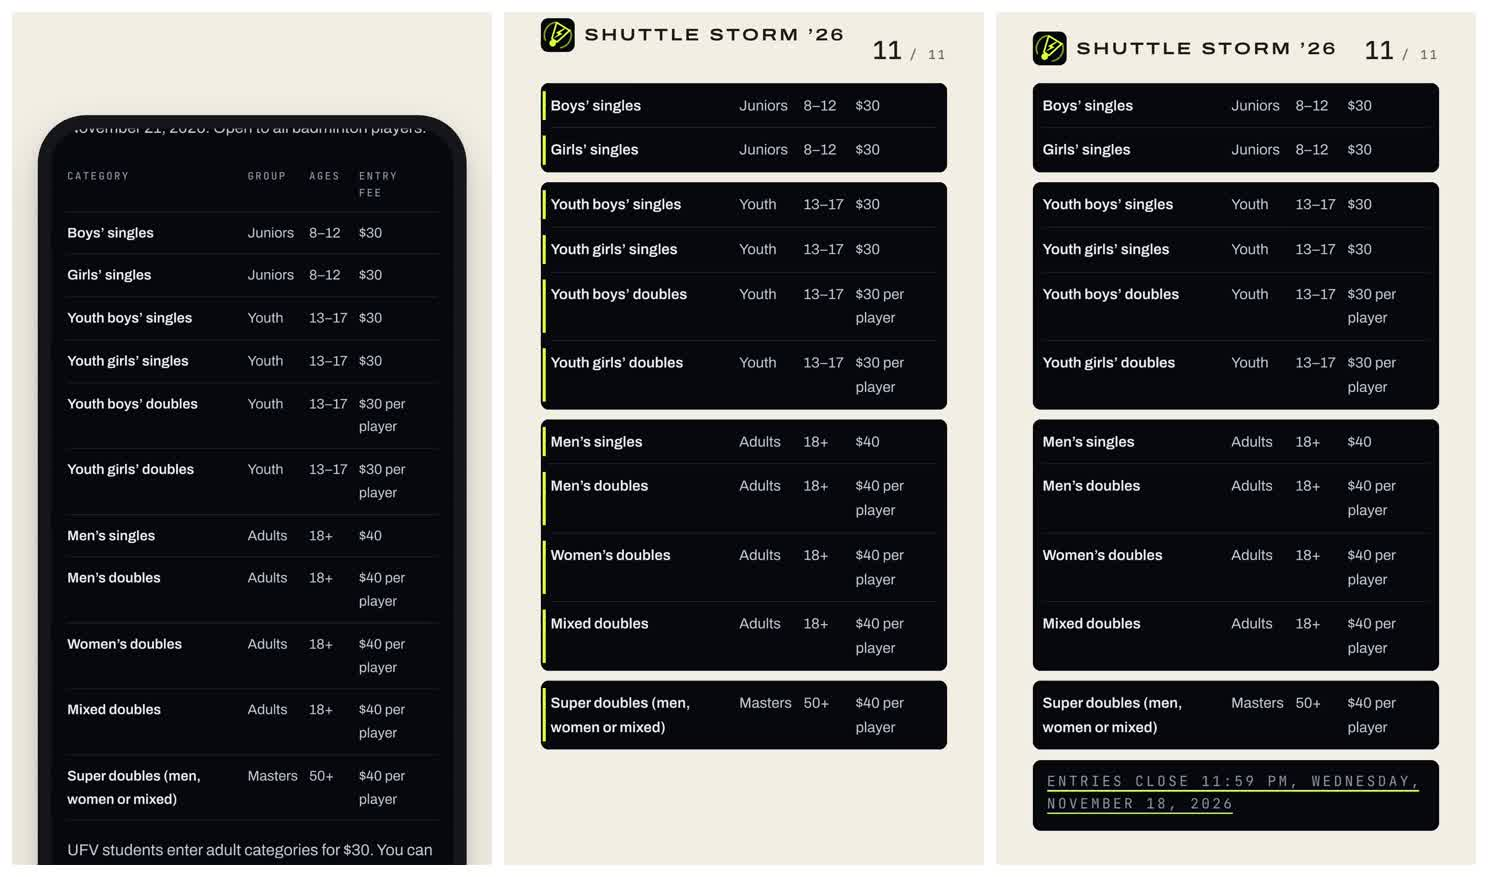
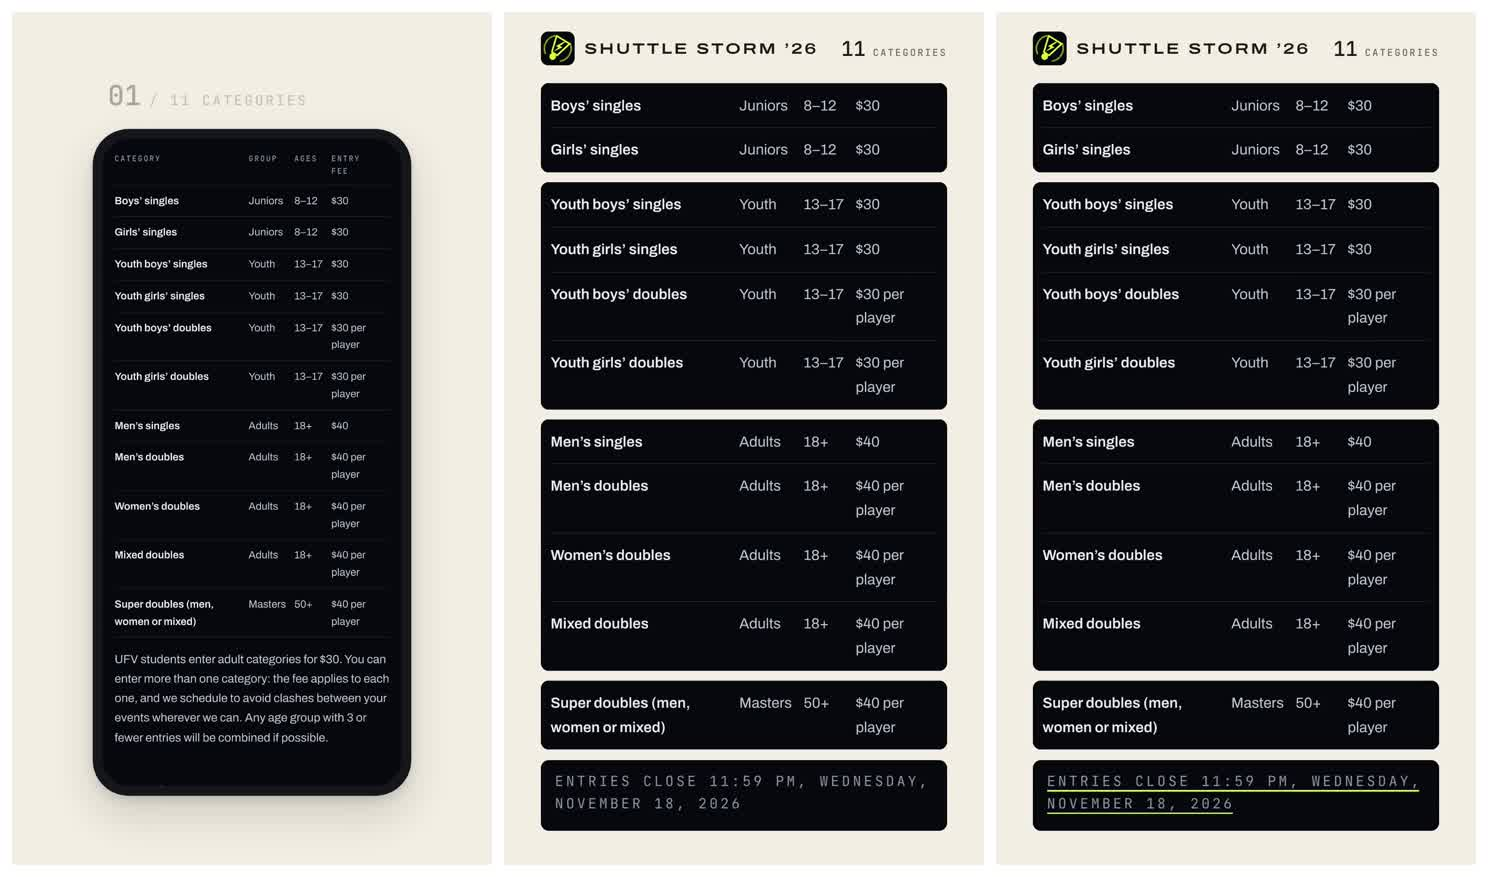
Shuttle Storm clip: rows break out and grow into the wall
Addresses the fourth critic review: the scan shows the whole phone, so
the rows visibly grow about 1.4x into the full-width wall; the scan is
shorter and overlaps the lift; the phone exits fast; the counter ends as
"11 CATEGORIES"; the opening shows the menu header and the 05 numeral.

Claude-Session: https://claude.ai/code/session_01Q1qV7aXr3g9FSPdkydwqG5

Changed region(s): [[0.0, 0.0924, 0.6492, 0.9852], [0.3401, 0.0, 0.6183, 0.0924], [0.711, 0.0308, 0.9583, 0.0616]]

diff --git a/motion-graphics/src/ShuttleStormRegister.tsx b/motion-graphics/src/ShuttleStormRegister.tsx
@@ -116,17 +116,17 @@ const tap = {
   x: SCREEN.x + (MENU_TEXT.x + MENU_TEXT.w * 0.55) * K,
   y: SCREEN.y + (MENU_TEXT.y + MENU_TEXT.h / 2) * K,
 };
-const linkFocus = {
-  x: SCREEN.x + (MENU_TEXT.x + MENU_TEXT.w / 2) * K,
-  y: tap.y,
-};
-const scanFocusY = (PHONE.y - 96 + SCREEN.y + (ROWS[10][0] + ROWS[10][1] - CATS_SCROLL) * K) / 2 + 20;
+// Opening frame: the menu from its header (mark + name) down past "05 Categories".
+const menuFocus = { x: SCREEN.x + 205 * K, y: SCREEN.y + 200 * K };
+// Scan frame: the whole phone with the counter above it, so the rows read small
+// here and visibly grow when they break out into the wall.
+const scanFocusY = (PHONE.y - 96 + PHONE.y + PHONE_H) / 2;
 
 // Camera: hold → travel → hold. Repeated keys are holds.
-const KEY_T = [0, 18, 36, 76, 104, DURATION];
-const KEY_X = [linkFocus.x, linkFocus.x, WIDTH / 2, WIDTH / 2, WIDTH / 2, WIDTH / 2];
-const KEY_Y = [linkFocus.y, linkFocus.y, scanFocusY, scanFocusY, HEIGHT / 2, HEIGHT / 2];
-const KEY_Z = [2.9, 2.9, 1.5, 1.5, 1, 1];
+const KEY_T = [0, 18, 34, 58, 84, DURATION];
+const KEY_X = [menuFocus.x, menuFocus.x, WIDTH / 2, WIDTH / 2, WIDTH / 2, WIDTH / 2];
+const KEY_Y = [menuFocus.y, menuFocus.y, scanFocusY, scanFocusY, HEIGHT / 2, HEIGHT / 2];
+const KEY_Z = [1.95, 1.95, 1.12, 1.12, 1, 1];
 
 export const ShuttleStormRegister: React.FC = () => {
   const frame = useCurrentFrame();
@@ -139,34 +139,35 @@ export const ShuttleStormRegister: React.FC = () => {
   // (menu.js: a:active{color:#D4FF3A}) turns its text volt.
   const touchIn = interpolate(frame, [3, 9], [0, 1], { ...clamp, easing: Easing.out(Easing.cubic) });
   const pressed = interpolate(frame, [9, 12, 16, 19], [0, 1, 1, 0], clamp);
-  const touchOut = interpolate(frame, [17, 21], [1, 0], clamp);
+  const touchOut = interpolate(frame, [15, 18], [1, 0], clamp);
   const active = frame >= 11 && frame < 20 ? 1 : 0;
 
   // The link navigates: a clean cut to /categories, which scrolls to its table.
   const onCategories = frame >= 20;
-  const scroll = interpolate(frame, [22, 38], [0, CATS_SCROLL], { ...clamp, easing: ease });
+  const scroll = interpolate(frame, [22, 34], [0, CATS_SCROLL], { ...clamp, easing: ease });
 
   // A flat volt bar marks each of the eleven real rows; the counter follows it.
-  const ROW_START = 40;
-  const ROW_STEP = 2.6;
+  const ROW_START = 36;
+  const ROW_STEP = 1.9;
   const markedAt = (i: number) =>
     interpolate(frame, [ROW_START + i * ROW_STEP, ROW_START + i * ROW_STEP + 3], [0, 1], clamp);
   const rowsDone = Math.max(1, Math.min(11, Math.floor((frame - ROW_START) / ROW_STEP) + 1));
 
-  // The rows lift out of the page together (no overlap) and scale up into the
-  // wall; the emptied phone drops away beneath them. Marker bars retract.
-  const lift = interpolate(frame, [78, 104], [0, 1], { ...clamp, easing: ease });
-  const markerKeep = interpolate(frame, [104, 116], [1, 0], { ...clamp, easing: ease });
-  const phoneDrop = interpolate(frame, [80, 100], [0, 2300], {
+  // As the count completes, the rows break out of the page together (no overlap)
+  // and grow ~1.4× into the full-width wall while the camera settles back; the
+  // emptied phone shrinks and drops out fast. Marker bars retract.
+  const lift = interpolate(frame, [58, 84], [0, 1], { ...clamp, easing: ease });
+  const markerKeep = interpolate(frame, [84, 94], [1, 0], { ...clamp, easing: ease });
+  const phoneOut = interpolate(frame, [58, 72], [0, 1], {
     ...clamp,
-    easing: Easing.in(Easing.quad),
+    easing: Easing.in(Easing.cubic),
   });
 
   // Lockup slides down into frame, the deadline card slides up, both opaque.
-  const lockupIn = interpolate(frame, [96, 112], [0, 1], { ...clamp, easing: Easing.out(Easing.cubic) });
-  const deadlineIn = interpolate(frame, [104, 120], [0, 1], { ...clamp, easing: Easing.out(Easing.cubic) });
-  const line1 = interpolate(frame, [122, 134], [0, 1], { ...clamp, easing: ease });
-  const line2 = interpolate(frame, [132, 140], [0, 1], { ...clamp, easing: ease });
+  const lockupIn = interpolate(frame, [78, 94], [0, 1], { ...clamp, easing: Easing.out(Easing.cubic) });
+  const deadlineIn = interpolate(frame, [86, 102], [0, 1], { ...clamp, easing: Easing.out(Easing.cubic) });
+  const line1 = interpolate(frame, [104, 116], [0, 1], { ...clamp, easing: ease });
+  const line2 = interpolate(frame, [114, 122], [0, 1], { ...clamp, easing: ease });
 
   const s = interpolate(lift, [0, 1], [K, WALL_S]);
 
@@ -198,7 +199,7 @@ export const ShuttleStormRegister: React.FC = () => {
               fontFamily: ARCHIVO,
               fontWeight: 600,
               fontStretch: "125%",
-              fontSize: 38,
+              fontSize: 34,
               letterSpacing: "0.14em",
               color: INK,
               textTransform: "uppercase",
@@ -214,7 +215,7 @@ export const ShuttleStormRegister: React.FC = () => {
           style={{
             position: "absolute",
             left: interpolate(lift, [0, 1], [SCREEN.x + CROP_X * K, WIDTH - MARGIN]),
-            top: interpolate(lift, [0, 1], [PHONE.y - 96, LOCKUP_Y + 14]),
+            top: interpolate(lift, [0, 1], [PHONE.y - 96, LOCKUP_Y + 16]),
             transform: `translateX(${-100 * lift}%)`,
             fontFamily: MONO,
             fontWeight: 500,
@@ -227,9 +228,9 @@ export const ShuttleStormRegister: React.FC = () => {
             opacity: interpolate(frame, [ROW_START - 4, ROW_START + 2], [0, 1], clamp),
           }}
         >
-          <span style={{ fontSize: 56, lineHeight: 1 }}>{String(rowsDone).padStart(2, "0")}</span>
-          <span style={{ fontSize: 28, letterSpacing: "0.16em", color: MUTED }}>
-            {lift < 0.5 ? "/ 11 CATEGORIES" : "/ 11"}
+          <span style={{ fontSize: interpolate(lift, [0, 1], [56, 46]), lineHeight: 1 }}>{String(rowsDone).padStart(2, "0")}</span>
+          <span style={{ fontSize: interpolate(lift, [0, 1], [28, 22]), letterSpacing: "0.16em", color: MUTED }}>
+            {lift < 0.5 ? "/ 11 CATEGORIES" : "CATEGORIES"}
           </span>
         </div>
 
@@ -243,7 +244,7 @@ export const ShuttleStormRegister: React.FC = () => {
             height: PHONE_H,
             borderRadius: 72,
             backgroundColor: DEVICE,
-            transform: `translateY(${phoneDrop}px)`,
+            transform: `translateY(${phoneOut * 2300}px) scale(${1 - 0.35 * phoneOut})`,
             boxShadow: "0 40px 80px rgba(40, 32, 20, 0.16), 0 8px 18px rgba(40, 32, 20, 0.12)",
           }}
         >
@@ -327,7 +328,7 @@ export const ShuttleStormRegister: React.FC = () => {
           ? ROWS.map(([top, h, g], i) => {
               const first = i === 0 || ROWS[i - 1][2] !== g;
               const last = i === 10 || ROWS[i + 1][2] !== g;
-              const r = 18 * lift;
+              const r = 18;
               return (
                 <div
                   key={i}

diff --git a/motion-graphics/.promptible/research-brief.md b/motion-graphics/.promptible/research-brief.md
@@ -24,7 +24,7 @@ The site is near-black ink (#06080D) with bone text (#ECEEF2), a single flat vol
 
 ## Motion plan
 
-Open tight on the real "05 CATEGORIES" link in the phone menu. A flat fingertip touch mark lands on it and the site's own :active state turns the text volt (menu.js `.ss-menu-list a:active{color:#D4FF3A}`); then a clean cut to /categories, which scrolls to its table while the camera eases out. A fast (~0.9 s) flat volt bar marks each of the eleven rows beside the text, with a tabular counter 01→11. The rows then lift out of the page together, keeping their proportions (no clipping or overlap), and scale up into a frame-filling wall separated by the page's own Group column (Juniors, Youth, Adults, Masters). They stay authentic screenshot crops throughout, never re-typed, while the emptied phone drops away and the marker bars retract. The lockup (site brand style: 600, 125% wide, .14em) slides into the top edge and the register page's own deadline line (scaled crop) slides up from the bottom; a flat volt underline draws under it. All cards move fully opaque. Stable end hold of about 2.3 s.
+Open on the real phone menu, framed from its header (Shuttle Storm mark and name) down past "05 CATEGORIES". A flat fingertip touch mark lands on the link and the site's own :active state turns the text volt (menu.js `.ss-menu-list a:active{color:#D4FF3A}`); then a clean cut to /categories, which scrolls to its table while the camera pulls back to show the whole phone. A fast (~0.7 s) flat volt bar marks each of the eleven rows beside the text, with a tabular counter 01→11. As the count completes, the rows break out of the phone together, keeping their proportions (no clipping or overlap), and grow about 1.4× into a full-width wall separated by the page's own Group column (Juniors, Youth, Adults, Masters), while the emptied phone shrinks and drops out fast. The rows stay authentic screenshot crops throughout, never re-typed; the marker bars retract. The lockup (site brand style: 600, 125% wide, .14em) slides in at the top edge with the counter settling beside it as "11 CATEGORIES", and the register page's own deadline line (scaled crop, authentic mono grey) slides up from the bottom with a flat volt underline. All cards move fully opaque. Stable end hold of about 2.9 s.
 
 ## Avoid
 
